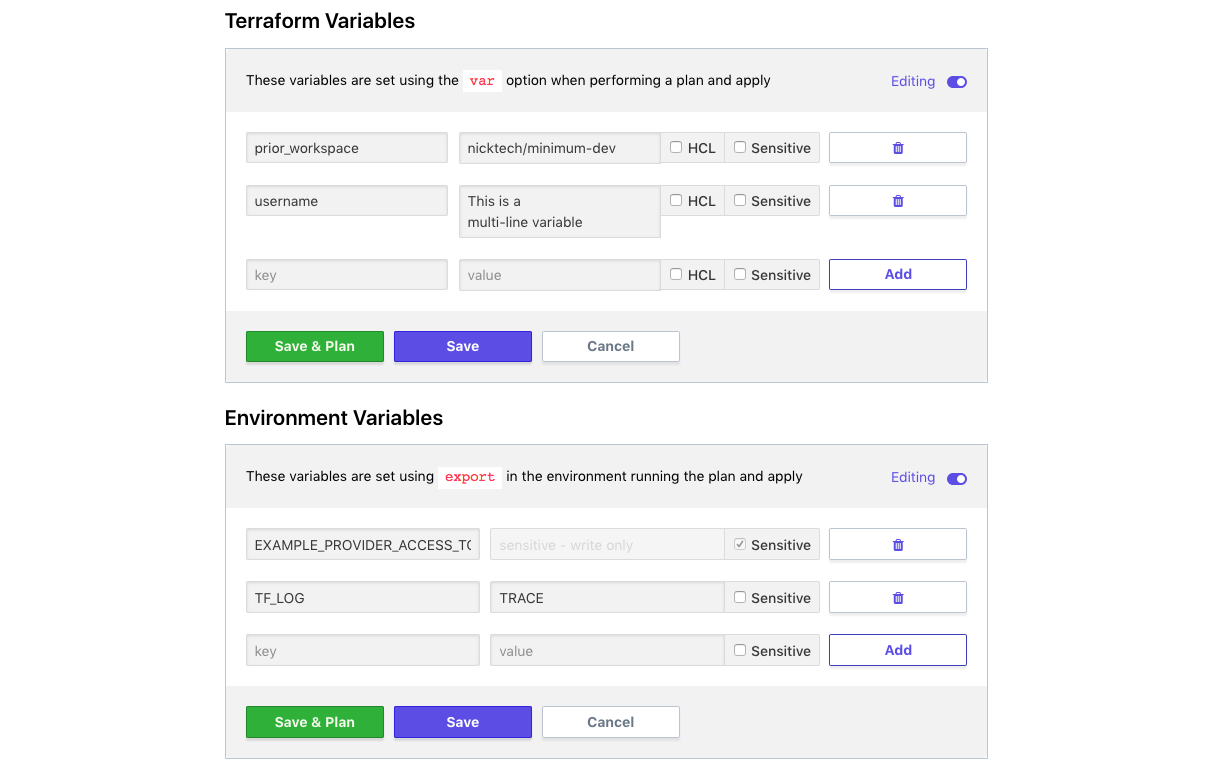
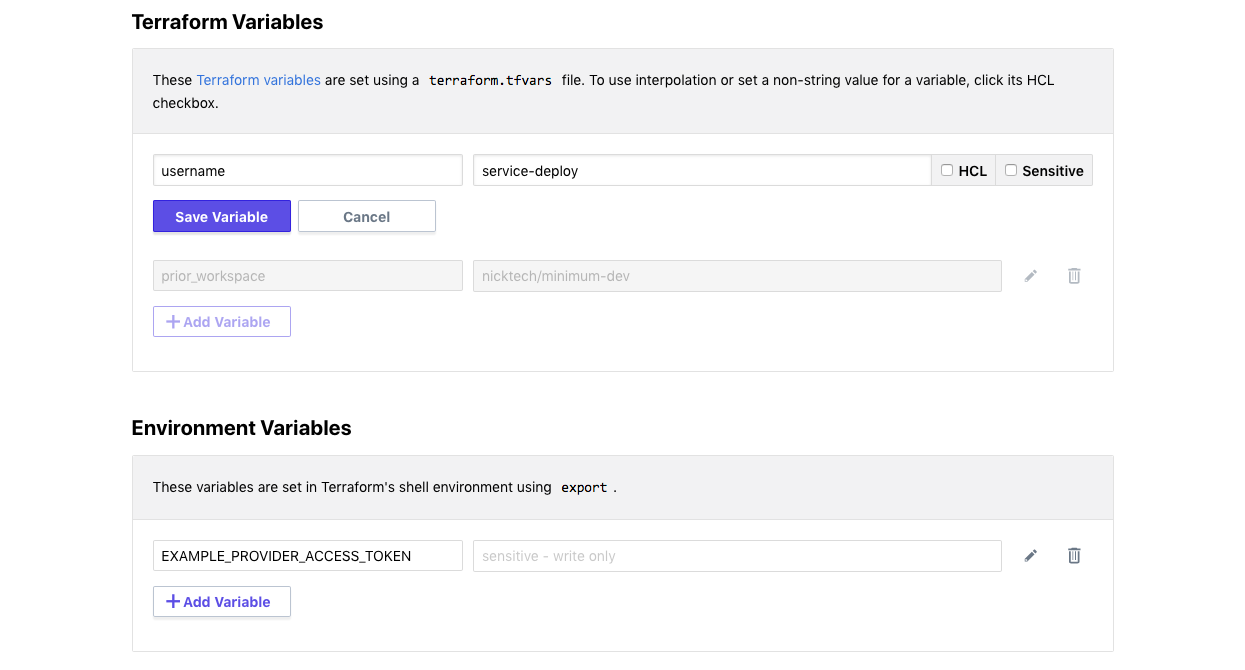
Update variable editing instructions and screenshots
The interface changed!

diff --git a/content/source/docs/enterprise/workspaces/variables.html.md b/content/source/docs/enterprise/workspaces/variables.html.md
@@ -29,17 +29,19 @@ You can also use the optional [TFE CLI tool](https://github.com/hashicorp/tfe-cl
 
 To view and manage a workspace's variables, navigate to that workspace and click the "Variables" navigation link at the top.
 
-![The initial appearance of a workspace's variables page](./images/vars.png)
+The variables page has separate lists of Terraform variables and environment variables:
 
-The variables page has separate lists of Terraform variables and environment variables. To edit a list, click the "Edit" switch in its upper right corner. The list will go into edit mode and the label will change to "Editing"; you can make any number of changes, then save the changes or discard them with the buttons below.
+![Screenshot: The initial appearance of a workspace's variables page](./images/vars.png)
 
-![Variable lists in edit mode](./images/vars-edit.png)
+To edit a variable, click one of its text fields or its pencil (edit) icon to reveal the editing controls. Make any desired changes to the variable's name, value, and settings, then click the "Save Variable" button.
 
-### Changing or Adding Variables
+To add a variable, click the "+ Add Variable" button, enter a name and value, and save.
 
-To change the name or value of an existing variable, edit the appropriate text fields.
+To delete a variable, click its "🗑" (trash can) icon, then confirm your decision in the dialog box that appears.
 
-In edit mode, variable lists include an empty row at the bottom. To create a new variable, enter a new key and value in that row; use the bottom row's "Add" button if you need additional empty rows.
+You can edit one variable at a time, and must save or cancel your current edits before editing other variables in the list.
+
+![Screenshot: A variable being edited](./images/vars-edit.png)
 
 ### Multi-line Values
 
@@ -47,7 +49,7 @@ The text fields for variable values can handle multi-line text (typed or pasted)
 
 ### HCL Values
 
-Variable values are strings by default. To enter list or map values, click the variable's "HCL" checkbox and enter the value with the same HCL syntax you would use when writing terraform code. For example:
+Variable values are strings by default. To enter list or map values, click the variable's "HCL" checkbox (visible when editing) and enter the value with the same HCL syntax you would use when writing Terraform code. For example:
 
 ```hcl
 {
@@ -62,12 +64,13 @@ HCL can be used for Terraform variables, but not for environment variables. The 
 
 Terraform often needs cloud provider credentials and other sensitive information that shouldn't be widely available within your organization.
 
-To protect these secrets, you can mark any any Terraform or environment variable as sensitive data by clicking its "Sensitive" checkbox in edit mode.
+To protect these secrets, you can mark any any Terraform or environment variable as sensitive data by clicking its "Sensitive" checkbox (visible when editing).
 
-Marking a variable as sensitive severely limits how users can interact with it:
+Marking a variable as sensitive prevents anybody (including you) from viewing its value in TFE's UI or API.
 
-- Nobody (including you) can view the value in TFE's UI or API. (However, Terraform runs will receive the value, and might print the value in logs if the configuration pipes the value through to an output or a resource parameter. Take care when writing your configurations.)
-- Nobody can edit the variable's name or value, change whether or not it's an HCL value, or mark it as non-sensitive. To alter anything about a sensitive variable, you must delete it and create a new variable with the same name.
+Users with edit permissions can set new values for sensitive variables. However, no one can change a sensitive variable into a non-sensitive one. (If a variable was accidentally marked sensitive, you can delete it and create a new variable to replace it.)
+
+~> **Important:** Terraform runs will receive the full text of sensitive variables, and might print the value in logs if the configuration pipes the value through to an output or a resource parameter. Take care when writing your configurations to avoid unnecessary credential disclosure.
 
 ### Looking Up Variable Names
 
